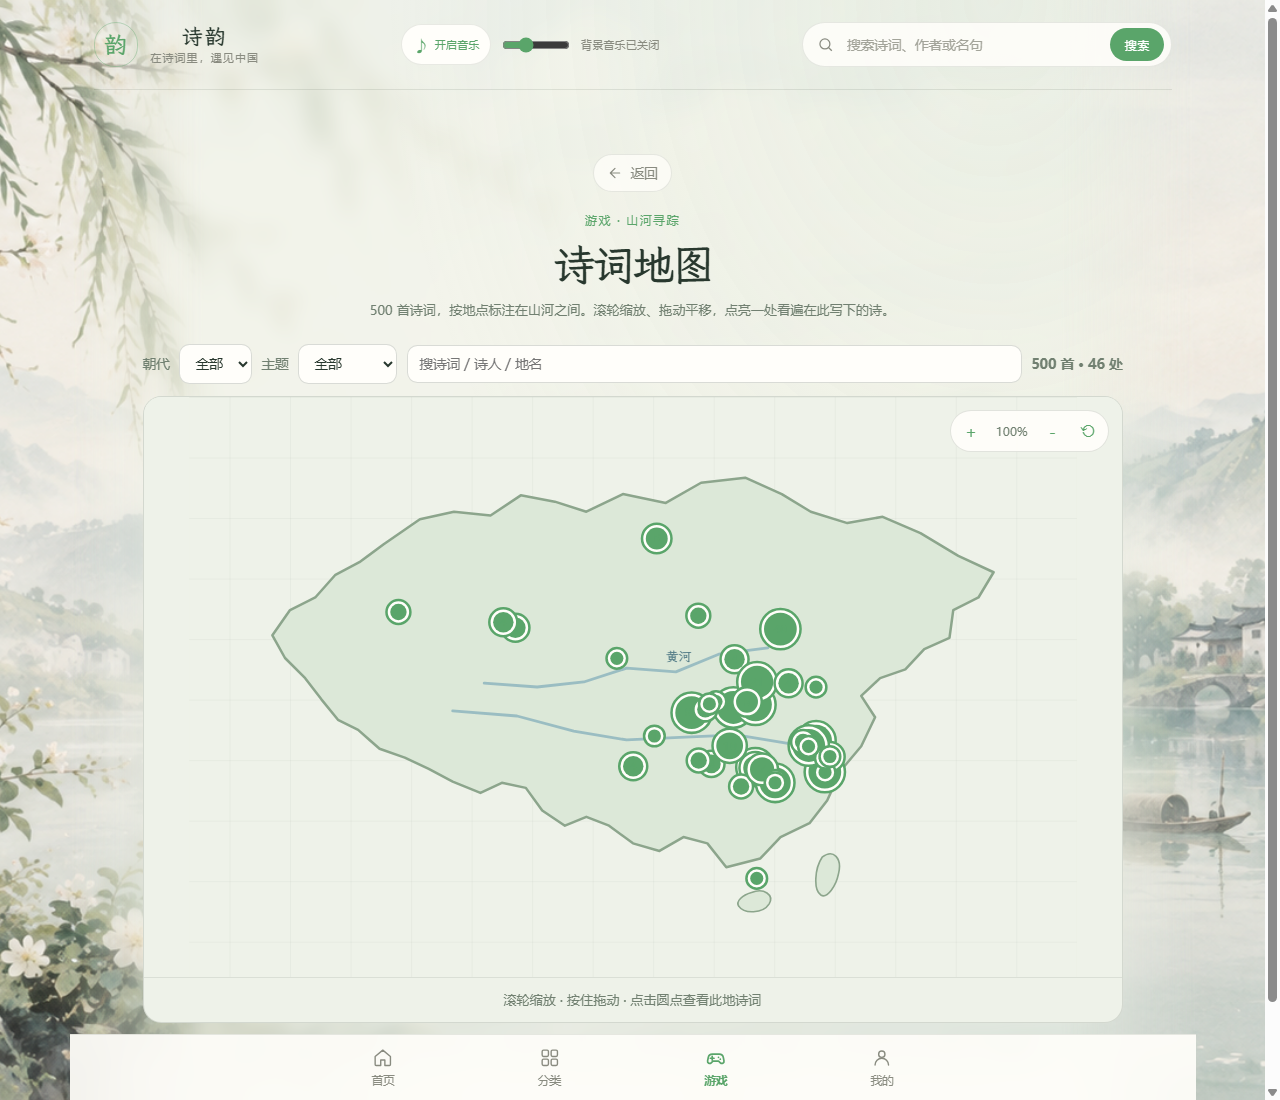
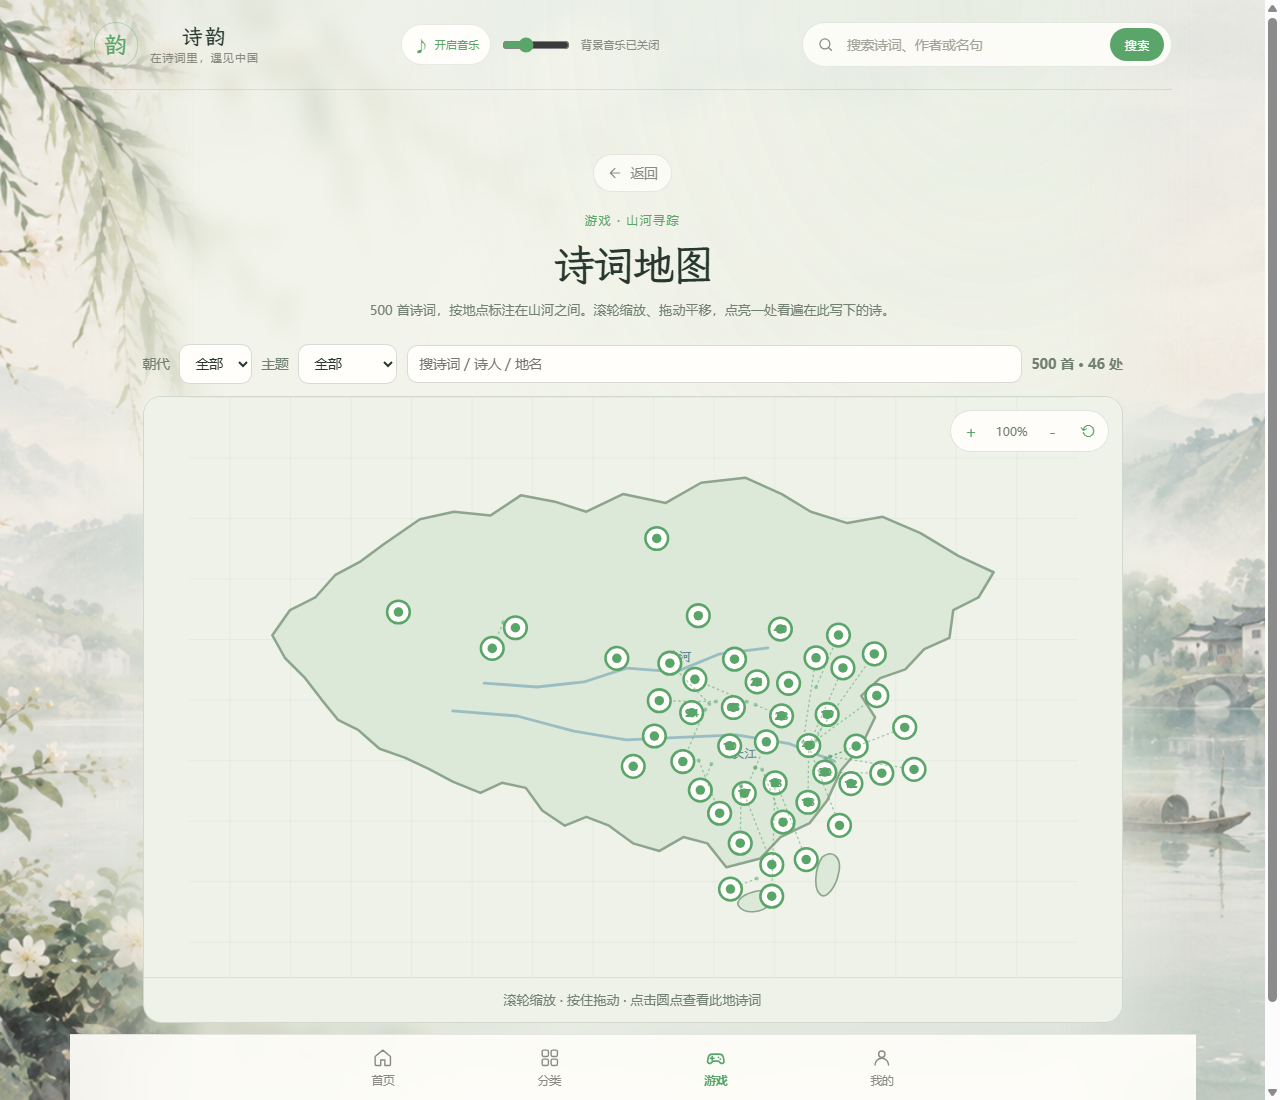
fix: 诗词地图放大上限提到32倍 + 点位防重叠螺旋散开（引线连回真实坐标）

Changed region(s): [[0.4688, 0.5564, 0.7188, 0.8345], [0.375, 0.5564, 0.4375, 0.6182], [0.5, 0.4636, 0.5312, 0.5255]]

diff --git a/src/views/PoemMapView.vue b/src/views/PoemMapView.vue
@@ -76,7 +76,8 @@ const zoomPct = computed(() => Math.round(scale.value * 100))
 const activePlace = ref(null)
 
 function clampView(v) {
-  const w = Math.min(BASE.w, Math.max(80, v.w))
+  // 最多放大 32 倍（viewBox 宽最小 20），缩小回全图
+  const w = Math.min(BASE.w, Math.max(20, v.w))
   const h = w * (BASE.h / BASE.w)
   return {
     w,
@@ -85,6 +86,54 @@ function clampView(v) {
     y: Math.min(BASE.h - h, Math.max(0, v.y)),
   }
 }
+
+// ---- 防重叠布局：屏幕上挨得太近的点螺旋散开，用引线连回真实坐标 ----
+// 半径按"屏幕像素"恒定：缩放越大，SVG 单位半径越小，点之间自然分开。
+const layoutPoints = computed(() => {
+  const s = scale.value                       // 1 = 全图, 越大越放大
+  const unit = 1 / s                           // 1 屏幕px 对应的 SVG 单位
+  const baseRadius = 9 * unit                  // 标记半径（屏幕恒定 9px）
+  const minDist = baseRadius * 2.5             // 触发散开的最小间距
+  const placed = []
+
+  //  poetry 多的点优先占住原位，其余点绕开
+  const ordered = [...basePoints.value].sort((a, b) => b.poems.length - a.poems.length)
+  for (const p of ordered) {
+    let dx = 0
+    let dy = 0
+    let ring = 0
+    // 最多尝试若干圈，找不与已放点冲突的位置
+    for (ring = 0; ring < 12; ring++) {
+      const count = ring === 0 ? 1 : ring * 8
+      let found = false
+      for (let i = 0; i < count; i++) {
+        const angle = (i / count) * Math.PI * 2 + ring * 0.4
+        const dist = ring === 0 ? 0 : ring * minDist
+        const tx = p.x + Math.cos(angle) * dist
+        const ty = p.y + Math.sin(angle) * dist
+        const collide = placed.some((q) => Math.hypot(q.mx - tx, q.my - ty) < minDist)
+        if (!collide) {
+          dx = tx - p.x
+          dy = ty - p.y
+          found = true
+          break
+        }
+      }
+      if (found) break
+    }
+    placed.push({
+      ...p,
+      mx: p.x + dx,
+      my: p.y + dy,
+      radius: baseRadius,
+      coreRadius: Math.max(1.5, baseRadius * 0.42),
+      hasLeader: Math.hypot(dx, dy) > baseRadius * 0.5,
+      fontSize: Math.max(5, 9 * unit),
+      strokeWidth: Math.max(0.6, 2 * unit),
+    })
+  }
+  return placed
+})
 
 function zoomAt(clientX, clientY, factor, svgEl) {
   if (!svgEl) return
@@ -205,7 +254,7 @@ function radiusFor(count) {
         <text class="map-label river-label" x="356" y="209">黄河</text>
 
         <g
-          v-for="group in basePoints"
+          v-for="group in layoutPoints"
           :key="group.key"
           class="poem-map-point"
           :class="{ active: activePlace?.key === group.key }"
@@ -217,9 +266,17 @@ function radiusFor(count) {
           @keydown.space.prevent="selectPlace(group)"
         >
           <title>{{ group.ancientName }} · {{ group.poems.length }} 首诗</title>
-          <circle class="point-halo" :cx="group.x" :cy="group.y" :r="radiusFor(group.poems.length)" />
-          <circle class="point-core" :cx="group.x" :cy="group.y" :r="Math.max(2.5, radiusFor(group.poems.length) - 3)" />
-          <text class="point-count" :x="group.x" :y="group.y + 3">{{ group.poems.length }}</text>
+          <line
+            v-if="group.hasLeader"
+            class="point-leader"
+            :x1="group.x" :y1="group.y"
+            :x2="group.mx" :y2="group.my"
+            :stroke-width="Math.max(0.5, 1 * (1 / scale))"
+          />
+          <circle class="point-anchor" :cx="group.x" :cy="group.y" :r="Math.max(1, 1.6 * (1 / scale))" />
+          <circle class="point-halo" :cx="group.mx" :cy="group.my" :r="group.radius" :stroke-width="group.strokeWidth" />
+          <circle class="point-core" :cx="group.mx" :cy="group.my" :r="group.coreRadius" />
+          <text class="point-count" :x="group.mx" :y="group.my + group.fontSize * 0.35" :font-size="group.fontSize">{{ group.poems.length }}</text>
         </g>
       </svg>
 
@@ -283,9 +340,11 @@ function radiusFor(count) {
 .river-label { fill: #567e89; font-size: 10px; }
 
 .poem-map-point { cursor: pointer; outline: none; }
-.point-halo { fill: #fffefa; stroke: var(--accent, #65846c); stroke-width: 2; transition: fill 150ms ease, stroke 150ms ease; }
+.point-leader { stroke: var(--accent, #65846c); stroke-opacity: .55; stroke-dasharray: 2 2; pointer-events: none; }
+.point-anchor { fill: var(--accent, #65846c); fill-opacity: .5; pointer-events: none; }
+.point-halo { fill: #fffefa; stroke: var(--accent, #65846c); transition: fill 150ms ease, stroke 150ms ease; }
 .point-core { fill: var(--accent, #65846c); pointer-events: none; }
-.point-count { fill: var(--accent, #65846c); font-size: 9px; font-weight: 700; text-anchor: middle; pointer-events: none; }
+.point-count { fill: var(--accent, #65846c); font-weight: 700; text-anchor: middle; pointer-events: none; }
 .poem-map-point:hover .point-halo, .poem-map-point:focus .point-halo, .poem-map-point.active .point-halo { fill: #e7ae6a; stroke: #b9813f; }
 .poem-map-point:hover .point-count, .poem-map-point.active .point-count { fill: #7a4e17; }
 
